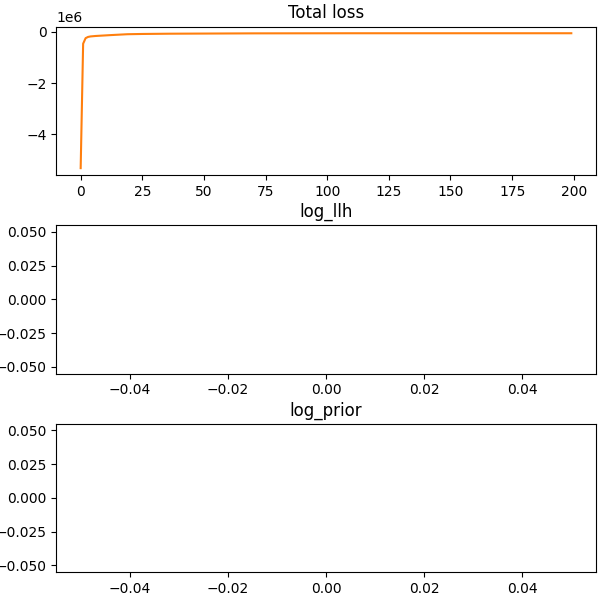
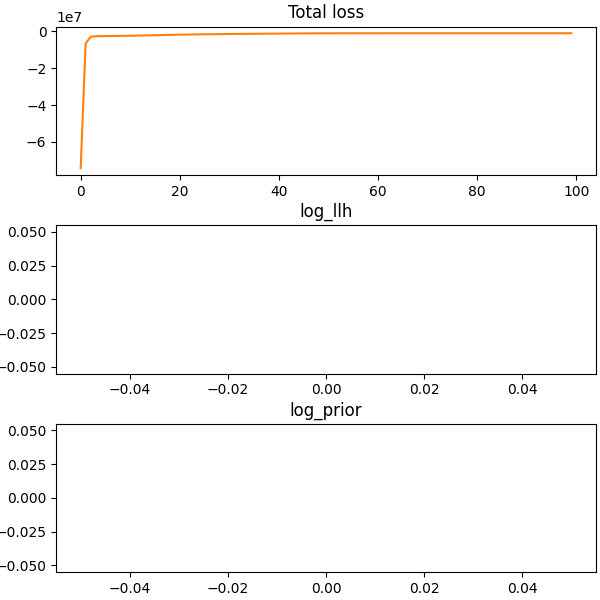
WIP MAP2: only prior on mu, modify sigma0 for fixed points, works with cities toy

diff --git a/pmds/pmds_MAP2.py b/pmds/pmds_MAP2.py
@@ -1,61 +1,53 @@
 # Latent variable Probabilistic MDS
 import random
-from itertools import combinations
 from time import time
 
+import wandb
 import jax
 import jax.numpy as jnp
 import numpy as np
-from jax.scipy.special import i0e  # xlogy, gammaln, i0e, i1e
-from jax.scipy.stats import gamma, multivariate_normal
-
-import wandb
+from jax.scipy.special import i0e
+from jax.scipy.stats import multivariate_normal
 
 from .score import stress, sammonZ
 
 
-DISABLE_JIT = False
 EPSILON = 1e-5
-SCALE = 1
-FIXED_RATE = 1.0 / 1e-3
+FIXED_SCALE = 1e-3
+DISABLE_LOGGING = True
 
-if DISABLE_JIT:
-    jax.jit = lambda x: x
-
-# lazylog = lambda i, d: None
-lazylog = lambda i, d: wandb.log(d, commit=False, step=i)
 hist = wandb.Histogram
+if DISABLE_LOGGING:
+    metric_log = lambda _: None
+    lazylog = lambda _, __: None
+else:
+    metric_log = wandb.log
+    lazylog = lambda i, d: wandb.log(d, commit=False, step=i)
 
 
-def loss_MAP(
-    mu, tau_unc, D, i0, i1, mu0, beta=1.0, gamma_shape=1.0, gamma_rate=1.0, alpha=1.0
-):
+def log_prior_mu(mu, mu0, sigma0):
+    return multivariate_normal.logpdf(mu, mean=mu0, cov=sigma0).sum()
+
+
+log_prior_mu_batch = jax.vmap(log_prior_mu, in_axes=(0, 0, 0), out_axes=0)
+
+
+def loss_MAP(mu, D, i0, i1, mu0, sigma0, sigma_local, alpha):
     mu_i, mu_j = mu[i0], mu[i1]
-    # tau = EPSILON + jax.nn.softplus(SCALE * tau_unc)
-    tau = 1e3 * jnp.ones((2, 1))
-    tau_i, tau_j = tau[i0], tau[i1]
-
-    tau_ij = tau_i * tau_j / (tau_i + tau_j)
-    # log_tau_ij = jnp.log(tau_i) + jnp.log(tau_j) - jnp.log(tau_i + tau_j)
-
+    sigma_ij = sigma_local[i0] + sigma_local[i1]
     d = jnp.linalg.norm(mu_i - mu_j, ord=2, axis=1, keepdims=1)
 
     log_llh = (
-        jnp.log(D)  # this is constant, can remove from the obj func?
-        + jnp.log(tau_ij)
-        - 0.5 * tau_ij * (D - d) ** 2
-        + jnp.log(i0e(tau_ij * D * d))
+        jnp.log(D)
+        - jnp.log(sigma_ij)
+        - 0.5 * (D - d + EPSILON) ** 2 / sigma_ij
+        + jnp.log(i0e(D * d + EPSILON / sigma_ij))
     )
-
-    # index of points in prior
-    log_mu = multivariate_normal.logpdf(mu, mean=mu0, cov=jnp.eye(2))
-    # log_tau = gamma.logpdf(tau, a=gamma_shape, scale=1.0 / gamma_rate)
-
-    return jnp.sum(log_llh) + jnp.sum(log_mu)  # + jnp.sum(log_tau)
+    log_mu_all = log_prior_mu_batch(mu, mu0, sigma0)
+    return jnp.sum(log_llh) + alpha * jnp.sum(log_mu_all)
 
 
-# TODO jit it
-loss_and_grads_MAP = jax.value_and_grad(loss_MAP, argnums=[0, 1])
+loss_and_grads_MAP = jax.jit(jax.value_and_grad(jax.jit(loss_MAP), argnums=[0]))
 
 
 def pmds_MAP2(
@@ -71,38 +63,39 @@ def pmds_MAP2(
     init_mu=None,
     hard_fix=False,
     method="LV",
-    mu0=[0.0, 0.0],
-    beta=0.16,
-    gamma_shape=5.0,
-    gamma_rate=2.0,
-    alpha=1.0,  # contribution of log prior
+    sigma_local=1e-3,
+    alpha=None,  # contribution of log prior
 ):
-    mu0 = jnp.array(mu0)
+    # can multiply the log prior with factor N
+    if alpha is None:
+        alpha = n_samples - 1
 
-    # init `mu` and `tau`. Transform unconstrained tau `tau_unc` to  constrained `tau`.
-    # https://github.com/tensorflow/probability/issues/703
-    key_mu, key_tau = jax.random.split(jax.random.PRNGKey(random_state))
-    tau_unc = -4.0 * jnp.abs(jax.random.normal(key_tau, (n_samples, 1)))
-    # tau_unc = jnp.ones((n_samples,))
+    # global param for each mu
+    mu0 = jnp.zeros((n_samples, 2))
+    sigma0 = jnp.zeros((n_samples, 2, 2)) + jnp.eye(2)
+
+    # local variance for each point
+    sigma_local = jnp.ones((2, 1)) * sigma_local
+
+    key_mu, _ = jax.random.split(jax.random.PRNGKey(random_state))
     if init_mu is not None and init_mu.shape == (n_samples, n_components):
         mu = jnp.array(init_mu)
     else:
-        mu = jax.random.multivariate_normal(
-            key=key_mu, mean=mu0, cov=jnp.eye(2), shape=[n_samples]
-        )
-        # mu = jax.random.normal(key_mu, (n_samples, n_components))
+        mu = jax.random.normal(key_mu, (n_samples, n_components))
+        # mu = jnp.zeros((n_samples, 2))
 
-    # # fixed points
-    # if fixed_points:
-    #     fixed_indices = [p[0] for p in fixed_points]
-    #     fixed_pos = jnp.array([[p[1], p[2]] for p in fixed_points])
-    #     mu = jax.ops.index_update(mu, fixed_indices, fixed_pos)
-    #     tau_unc = jax.ops.index_update(tau_unc, fixed_indices, FIXED_RATE)
+    # fixed points
+    if fixed_points:
+        fixed_indices = jnp.array([p[0] for p in fixed_points])
+        fixed_pos = jnp.array([[p[1], p[2]] for p in fixed_points])
+        mu0 = jax.ops.index_update(mu0, fixed_indices, fixed_pos)
+        sigma0 = jax.ops.index_update(
+            sigma0, fixed_indices, FIXED_SCALE * sigma0[fixed_indices]
+        )
 
     loss = 0.0
     total_time = 0
     all_loss = []
-    all_mu = []
     mds_stress = sammon_err = 0.0
 
     for epoch in range(epochs):
@@ -115,18 +108,10 @@ def pmds_MAP2(
         dists = jnp.array(dists).reshape(-1, 1)
         i0, i1 = map(jnp.array, zip(*pair_indices))
 
-        loss, [grads_mu, grads_tau_unc] = loss_and_grads_MAP(
-            mu, tau_unc, dists, i0, i1, mu0, beta, gamma_shape, gamma_rate, alpha
+        loss, [grads_mu] = loss_and_grads_MAP(
+            mu, dists, i0, i1, mu0, sigma0, sigma_local, alpha
         )
-        mu = mu + lr * grads_mu
-        # grads_tau_unc = grads_tau * jax.nn.sigmoid(SCALE * tau_unc) * SCALE
-        # tau_unc = tau_unc + lr * grads_tau_unc
-        # tau = EPSILON + jax.nn.softplus(SCALE * tau_unc)
-
-        # # correct gradient for fixed points
-        # if fixed_points and hard_fix:
-        #     mu = jax.ops.index_update(mu, fixed_indices, fixed_pos)
-        #     tau_unc = jax.ops.index_update(tau_unc, fixed_indices, FIXED_RATE)
+        mu = mu + alpha * lr * grads_mu
 
         if debug_D_squareform is not None:
             mds_stress = stress(debug_D_squareform, mu)
@@ -138,28 +123,19 @@ def pmds_MAP2(
         )
         total_time += time() - tic
 
-        # if epoch in [1, 2, 3, 8, epochs - 8, epochs - 3, epochs - 1]:
-        # all_mu.append({"epoch": epoch, "Z": mu})
         all_loss.append(loss)
-
-        tau = EPSILON + jax.nn.softplus(SCALE * tau_unc)
         lazylog(
             epoch,
             {
                 "loss": float(loss),
                 "stress": mds_stress,
                 "sammon": sammon_err,
-                "tau": np.array(tau),
-                "std": np.sqrt(1.0 / tau),  # TODO: beta * tau ?
                 "grad_mu1": hist(grads_mu[:, 0]),
                 "grad_mu2": hist(grads_mu[:, 1]),
-                "grad_tau_unc": hist(grads_tau_unc),
             },
         )
 
     print(f"DONE: final loss: {loss:,.0f}; {epochs} epochs in {total_time:.2f}s")
-    wandb.log({"total_loss": float(loss)})
+    metric_log({"total_loss": float(loss)})
 
-    tau = EPSILON + jax.nn.softplus(SCALE * tau_unc)
-    std = np.sqrt(1.0 / tau)  # TODO: beta * tau?
-    return mu, std, [all_loss, [], []], all_mu
+    return mu, None, [all_loss, [], []], None

diff --git a/pmds/config.py b/pmds/config.py
@@ -464,15 +464,18 @@ pre_config = {
     "MAP2": {
         "digits012": dict(
             dataset_name="digits012",
-            n_samples=200,  # None for all 537 data points of classes [0 ,1, 2]
+            n_samples=50,  # None for all 537 data points of classes [0 ,1, 2]
             n_components=2,
             batch_size=0,
-            epochs=200,
-            learning_rate=3e-5,  # (no missing: 5e-6, missing 50%: 3e-5) ,
-            missing_pairs=0.5,
+            epochs=100,
+            learning_rate=1e-8,  # (no missing: 5e-6, missing 50%: 3e-5) ,
+            # missing_pairs=0.0,
             random_state=2020,
             std=False,  # digits already in [0, 1]
             pca=None,
+            fixed_points=[
+                (0, 0.0, 0.0),
+            ],
             epochs_mds=10,
             # learning_rate_mds=20,
             batch_size_mds=500,
@@ -487,6 +490,71 @@ pre_config = {
             random_state=2020,
             std=False,  # digits already in [0, 1]
             pca=None,
+        ),
+        "cities_us_toy": dict(
+            dataset_name="cities_us_toy",
+            n_samples=None,  # 10
+            n_components=2,
+            batch_size=0,
+            epochs=100,
+            learning_rate=1e-5,
+            sigma_local=1e-3,
+            # missing_pairs=0.0,
+            random_state=42,
+            std=False,
+            pca=None,
+            fixed_points=[
+                (0, 0.5, 2.0),  # New York
+                (6, -0.5, 2.0),  # Olympia
+                # TODO test with only one moving point for Olympia
+                # (0, 0.4, 0.3),
+                # (6, -0.4, 0.2),
+                # (2, -0.4, 0.1),  # los angles
+                # (6, 0.0, -0.4),
+            ],
+            ### params for MDS-jax
+            epochs_mds=10,
+            learning_rate_mds=10,
+            batch_size_mds=20,
+        ),
+        "cities_us": dict(
+            dataset_name="cities_us",
+            n_samples=128,
+            n_components=2,
+            batch_size=0,
+            epochs=100,
+            learning_rate=2e-6,
+            random_state=42,
+            std=False,
+            pca=None,
+            ### params for MDS-jax
+            # epochs_mds=20,
+            # learning_rate_mds=10,
+            # batch_size_mds=20,
+        ),
+        "iris": dict(
+            dataset_name="iris",
+            n_samples=None,  # 150
+            n_components=2,
+            batch_size=0,
+            epochs=100,
+            learning_rate=1.2e-9,
+            random_state=42,
+            std=True,  # standardize
+            pca=None,
+            fixed_points=[],
+        ),
+        "wine": dict(
+            dataset_name="wine",
+            n_samples=100,
+            n_components=2,
+            batch_size=0,
+            epochs=100,
+            learning_rate=1.5e-9,
+            random_state=42,
+            std=True,  # standardize
+            pca=None,
+            fixed_points=[],
         ),
     },
 }

diff --git a/run_pmds.py b/run_pmds.py
@@ -74,6 +74,7 @@ def run_pdms(D, N, args, labels=None):
         random_state=args.random_state,
         debug_D_squareform=D_squareform,
         fixed_points=vars(args).get("fixed_points", []),
+        sigma_local=vars(args).get("sigma_local", 1e-3)
         # init_mu=Z0,
     )
 
@@ -129,6 +130,7 @@ if __name__ == "__main__":
     argm("--learning_rate", "-lr", default=1e-3, type=float, help="Learning rate SGD")
     argm("--batch_size", "-b", default=0, type=int, help="Batch size SGD")
     argm("--epochs", "-e", default=20, type=int, help="Number of epochs")
+    argm("--no_logging", action="store_true", help="Disable W&B / MLFlow logging")
 
     args = vars(parser.parse_args())
     dataset_name = args["dataset_name"]
@@ -154,5 +156,8 @@ if __name__ == "__main__":
         normalize_dists=args.normalize_dists,
     )
 
-    wandb.init(project=f"PMDS_{method_name}_v0.3", config=args)
+    if args.no_logging:
+        print("Using params: ", args)
+    else:
+        wandb.init(project=f"PMDS_{method_name}_v0.3", config=args)
     run_pdms(D, N, args=args, labels=labels)

diff --git a/pmds/plot.py b/pmds/plot.py
@@ -49,7 +49,7 @@ def plot_debug_Z(all_Z, labels=None, out_name="Zdebug.png", magnitude_factor=1.0
 
 def scatter(Z, Z_std=None, labels=None, title="", ax=None, out_name="Z.png"):
     fig, ax = plt.subplots(1, 1, figsize=(6, 6)) if ax is None else (None, ax)
-    # ax.set_aspect("equal")
+    ax.set_aspect("equal")
     # ax.set_xticks([])
     # ax.set_yticks([])
     cmap = "tab10" if (labels is not None and len(np.unique(labels)) > 5) else "jet"

diff --git a/pmds/dataset.py b/pmds/dataset.py
@@ -103,6 +103,6 @@ def load_qpcr(data_dir="./data"):
 
 
 if __name__ == "__main__":
-    D, labels, N = load_dataset("digits012", data_dir="./data", missing_pairs=0.5)
+    D, labels, N = load_dataset("cities_us", data_dir="./data", missing_pairs=0.5)
     # D, labels, N = load_qpcr(data_dir="./data")
     print(labels.shape, D.shape)

diff --git a/data/cities_us.py b/data/cities_us.py
@@ -31,7 +31,7 @@ def parse_dists(data_dir="."):
         lines = in_file.readlines()[7:]
         dists = []
         for line in lines:
-            dists.append(list(map(int, line.split())))
+            dists.append(list(map(float, line.split())))
 
     return np.array(dists)
 
